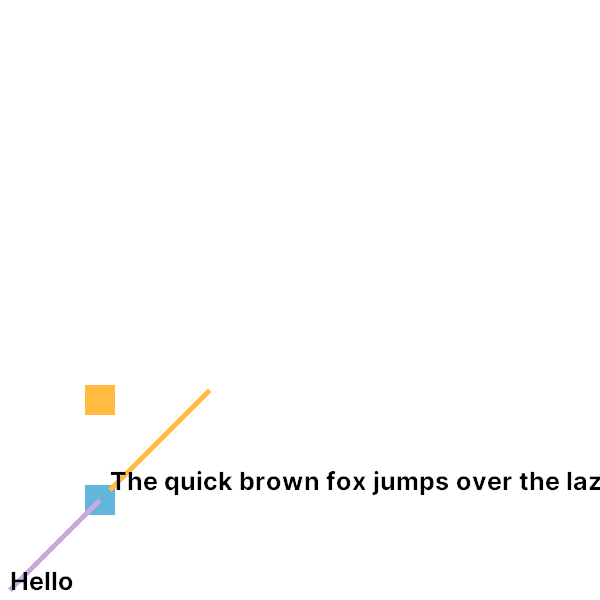
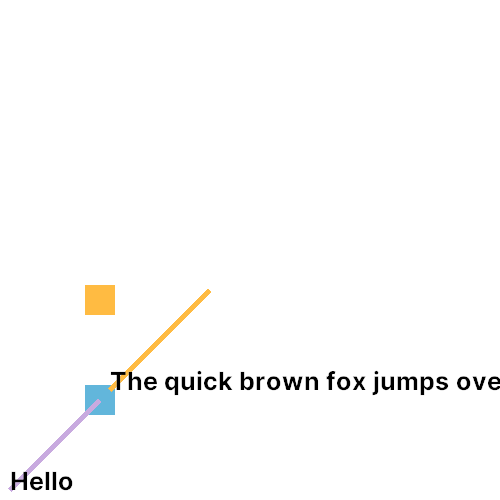
Working CLI

diff --git a/crates/pluot/src/render.rs b/crates/pluot/src/render.rs
@@ -12,8 +12,10 @@ pub use pluot_zarr::layers::zarr_point_3d_layer::ZarrPoint3dLayerParams;
 pub use pluot_zarr::layers::ome_zarr_bitmap_layer::OmeZarrBitmapLayerParams;
 pub use pluot_zarr::layers::ome_zarr_multiscale_layer::OmeZarrMultiscaleLayerParams;
 
-
-pub use pluot_core::{LayerParams as RawLayerParams, RenderParams as RawRenderParams};
+use pluot_core::{LayerParams as RawLayerParams, RenderParams as RawRenderParams};
+use pluot_core::params::{PlotParams, LayeredPlotRenderParams as RawLayeredPlotRenderParams};
+pub use pluot_core::params::{GraphicsFormat, ViewMode, RenderBackend, ComputeBackend};
+pub use pluot_core::render_traits::AspectRatioMode;
 
 pub use pluot_core::bindings::plain_rust::{render as raw_render};
 
@@ -42,35 +44,104 @@ pub enum LayerParams {
     ZarrPoint3dLayer(ZarrPoint3dLayerParams),
 }
 
-#[derive(Serialize, Deserialize, Debug)]
-pub struct LayeredPlotRenderParams {
+/// Strongly-typed render params. Mirrors [`RawRenderParams`] but accepts
+/// `layers` as a typed [`LayerParams`] enum instead of raw JSON values.
+#[derive(Debug, Clone)]
+pub struct RenderParams {
     pub layers: Vec<LayerParams>,
+    pub width: u32,
+    pub height: u32,
+    pub format: GraphicsFormat,
+    pub device_pixel_ratio: f32,
+    pub camera_view: Option<[f32; 16]>,
+    pub aspect_ratio_mode: AspectRatioMode,
+    pub view_mode: ViewMode,
+    pub plot_id: String,
+    pub store_name: String,
+    pub wait_for_store_gets: bool,
+    pub timeout: Option<u32>,
+    pub cache_enabled: bool,
+    pub svg_compression_enabled: bool,
+    pub svg_include_document: bool,
+    pub margin_left: Option<f32>,
+    pub margin_right: Option<f32>,
+    pub margin_top: Option<f32>,
+    pub margin_bottom: Option<f32>,
+    pub pickable: bool,
+    pub render_backend: Option<RenderBackend>,
+    pub compute_backend: Option<ComputeBackend>,
+}
+
+impl Default for RenderParams {
+    fn default() -> Self {
+        let raw = RawRenderParams::default();
+        Self {
+            layers: vec![],
+            width: raw.width,
+            height: raw.height,
+            format: raw.format,
+            device_pixel_ratio: raw.device_pixel_ratio,
+            camera_view: raw.camera_view,
+            aspect_ratio_mode: raw.aspect_ratio_mode,
+            view_mode: raw.view_mode,
+            plot_id: raw.plot_id,
+            store_name: raw.store_name,
+            wait_for_store_gets: raw.wait_for_store_gets,
+            timeout: raw.timeout,
+            cache_enabled: raw.cache_enabled,
+            svg_compression_enabled: raw.svg_compression_enabled,
+            svg_include_document: raw.svg_include_document,
+            margin_left: raw.margin_left,
+            margin_right: raw.margin_right,
+            margin_top: raw.margin_top,
+            margin_bottom: raw.margin_bottom,
+            pickable: raw.pickable,
+            render_backend: raw.render_backend,
+            compute_backend: raw.compute_backend,
+        }
+    }
 }
 
 fn to_raw_layer_params(layers: &[LayerParams]) -> Vec<RawLayerParams> {
-    vec![
-        // TODO: convert each element of layers to a RawLayerParams object.
+    layers.iter().map(|layer| {
+        // LayerParams is tagged as { "layer_type": "...", "layer_params": {...} }
+        // which matches the fields of RawLayerParams exactly.
+        let value = serde_json::to_value(layer).expect("LayerParams serialization failed");
+        let obj = value.as_object().expect("LayerParams must serialize to an object");
         RawLayerParams {
-            layer_type: "LineLayer".to_string(),
-            layer_params: serde_json::to_value(typed_layer_params).unwrap(),
+            layer_type: obj["layer_type"].as_str().expect("layer_type must be a string").to_string(),
+            layer_params: obj["layer_params"].clone(),
         }
-    ]
+    }).collect()
 }
 
-// TODO: raw_render accepts layer_params (within plot_params) as serde_json Value type.
-// Here, we want to define a render() function that accepts layer_params as a strongly-typed value instead.
-// We need to define a strongly-typed RenderParams and convert from LayerParams to RawLayerParams.
-pub async fn render(render_params: RenderParams) {
-
-
+pub async fn render(render_params: RenderParams) -> Vec<u8> {
+    let raw_layers = to_raw_layer_params(&render_params.layers);
     let raw_params = RawRenderParams {
-        // TODO
-        plot_params // TODO
+        width: render_params.width,
+        height: render_params.height,
+        format: render_params.format,
+        device_pixel_ratio: render_params.device_pixel_ratio,
+        camera_view: render_params.camera_view,
+        aspect_ratio_mode: render_params.aspect_ratio_mode,
+        view_mode: render_params.view_mode,
+        plot_id: render_params.plot_id,
+        store_name: render_params.store_name,
+        wait_for_store_gets: render_params.wait_for_store_gets,
+        timeout: render_params.timeout,
+        cache_enabled: render_params.cache_enabled,
+        svg_compression_enabled: render_params.svg_compression_enabled,
+        svg_include_document: render_params.svg_include_document,
+        margin_left: render_params.margin_left,
+        margin_right: render_params.margin_right,
+        margin_top: render_params.margin_top,
+        margin_bottom: render_params.margin_bottom,
+        pickable: render_params.pickable,
+        render_backend: render_params.render_backend,
+        compute_backend: render_params.compute_backend,
+        plot_params: PlotParams::LayeredPlot(RawLayeredPlotRenderParams {
+            layers: raw_layers,
+        }),
     };
-
-
-    // Render the plot.
-    let result = raw_render(raw_params).await;
-
-    return result;
+    raw_render(raw_params).await
 }

diff --git a/examples/pluot_cli/src/main.rs b/examples/pluot_cli/src/main.rs
@@ -1,6 +1,7 @@
 use clap::Parser;
+use serde::{Deserialize, Serialize};
 use image::{save_buffer_with_format, ColorType, ImageFormat};
-use pluot::{render, AspectRatioMode, GraphicsFormat, PlotParams, RenderParams, ViewMode};
+use pluot::{render, AspectRatioMode, GraphicsFormat, LayerParams, RenderParams, ViewMode};
 use std::fs;
 use std::io::{self, Read};
 use std::path::PathBuf;
@@ -77,6 +78,32 @@ struct Args {
     margin_bottom: Option<f32>,
 }
 
+
+// For the JSON representation, we want to pass an object like
+// { plot_type: "LayeredPlot", plot_params: { layers: [] } }
+// Which would allow alternative plot_type values in the future.
+
+#[derive(Serialize, Deserialize, Debug, Clone)]
+pub struct JsonLayeredPlotRenderParams {
+    pub layers: Vec<LayerParams>,
+}
+
+#[derive(Serialize, Deserialize, Debug, Clone)]
+#[serde(tag = "plot_type", content = "plot_params")]
+pub enum JsonPlotParams {
+    // Using adjacently tagged enum representation.
+    // { "plot_type": "Scatterplot" }
+    // Reference: https://serde.rs/enum-representations.html
+
+    LayeredPlot(JsonLayeredPlotRenderParams),
+}
+
+#[derive(Serialize, Deserialize, Debug, Clone)]
+pub struct JsonRenderParams {
+    #[serde(flatten)]
+    pub plot_params: JsonPlotParams,
+}
+
 /// Infer the graphics format from the output file extension.
 fn infer_format(path: &PathBuf) -> GraphicsFormat {
     path.extension()
@@ -144,6 +171,8 @@ fn read_json(input: &Option<PathBuf>) -> Result<String, io::Error> {
     }
 }
 
+
+
 #[tokio::main]
 async fn main() {
     let args = Args::parse();
@@ -179,7 +208,7 @@ async fn main() {
         None => None,
     };
 
-    // --- Read and parse JSON plot params ---
+    // --- Read and parse JSON layers ---
 
     let json_str = match read_json(&args.input) {
         Ok(s) => s,
@@ -189,17 +218,22 @@ async fn main() {
         }
     };
 
-    let plot_params: PlotParams = match serde_json::from_str(&json_str) {
+    let render_params: JsonRenderParams = match serde_json::from_str(&json_str) {
         Ok(p) => p,
         Err(e) => {
-            eprintln!("Error parsing JSON into PlotParams: {}", e);
+            eprintln!("Error parsing JSON into layers: {}", e);
             process::exit(1);
         }
+    };
+
+    let layers = match render_params.plot_params {
+        JsonPlotParams::LayeredPlot(layer_params) => layer_params.layers,
     };
 
     // --- Build RenderParams ---
 
     let params = RenderParams {
+        layers,
         width: args.width,
         height: args.height,
         format,
@@ -207,7 +241,6 @@ async fn main() {
         camera_view,
         aspect_ratio_mode,
         view_mode,
-        plot_params,
         plot_id: args.plot_id,
         store_name: args.store_name,
         margin_left: args.margin_left,

diff --git a/crates/pluot/src/lib.rs b/crates/pluot/src/lib.rs
@@ -3,7 +3,7 @@
 mod plugins;
 
 // Export things needed for layer-based plotting via Rust.
-pub use pluot_core::params::{RenderParams, PlotParams, LayerParams, GraphicsFormat, LayeredPlotRenderParams, ViewMode};
+pub use pluot_core::params::{GraphicsFormat, ViewMode};
 pub use pluot_core::render_traits::{AspectRatioMode, UnitsMode, ViewParams, MarginParams};
 
 
@@ -31,4 +31,4 @@ pub use pluot_core::bindings::python::{render_py};
 mod render;
 
 #[cfg(all(not(target_arch = "wasm32"), not(feature = "python")))]
-pub use crate::render::render;
+pub use crate::render::{render, RenderParams, LayerParams};